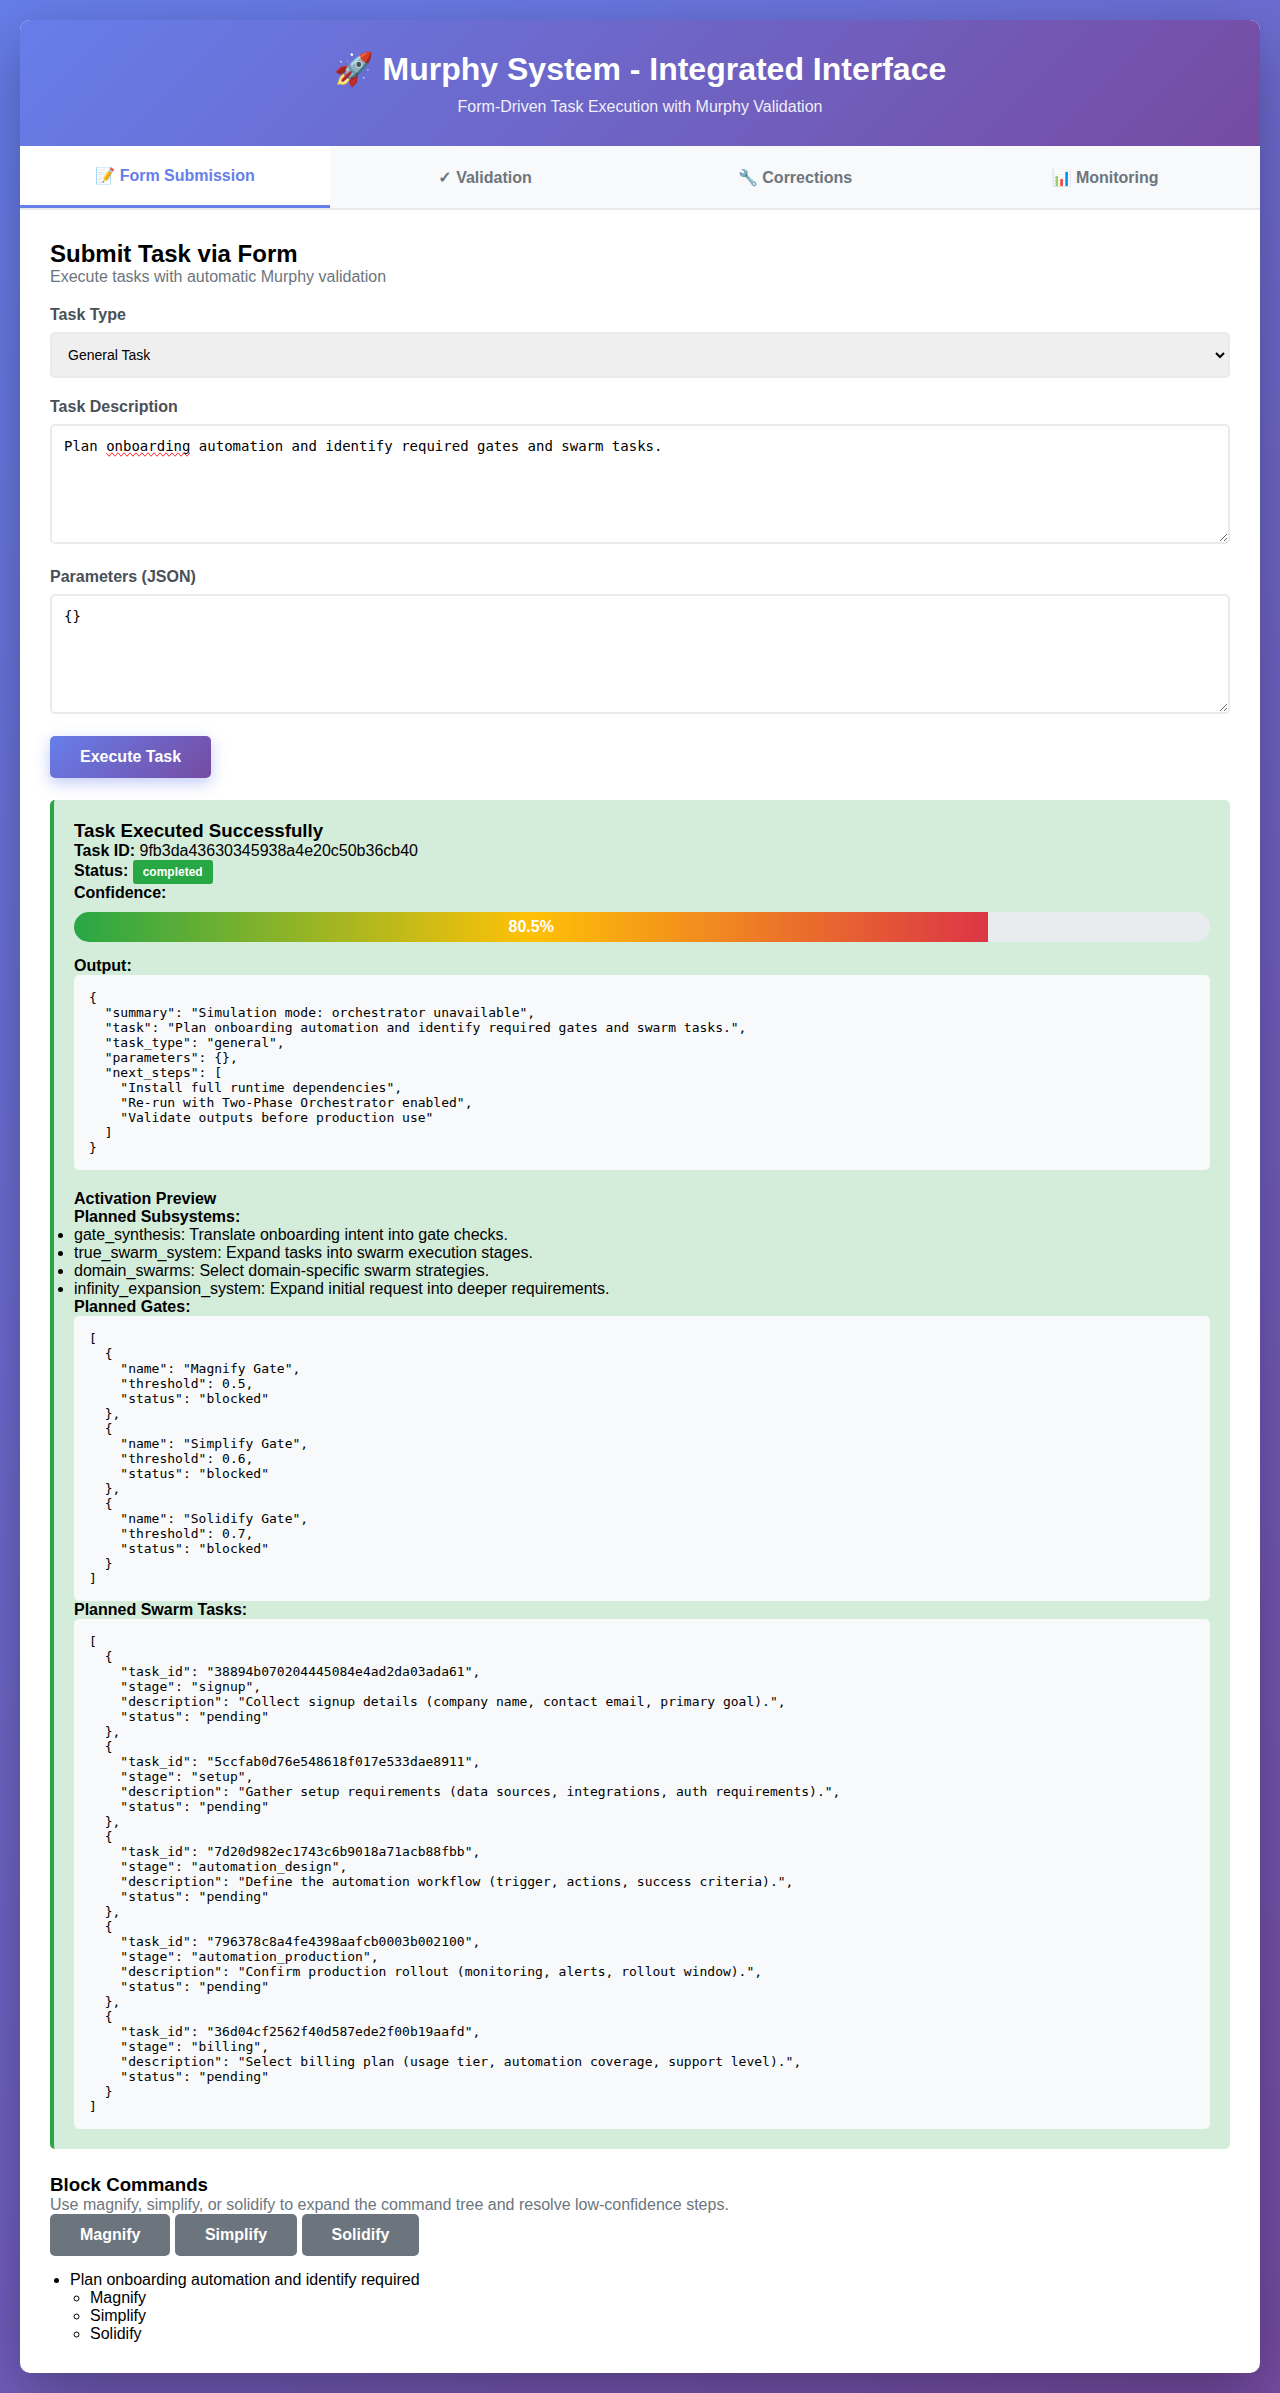
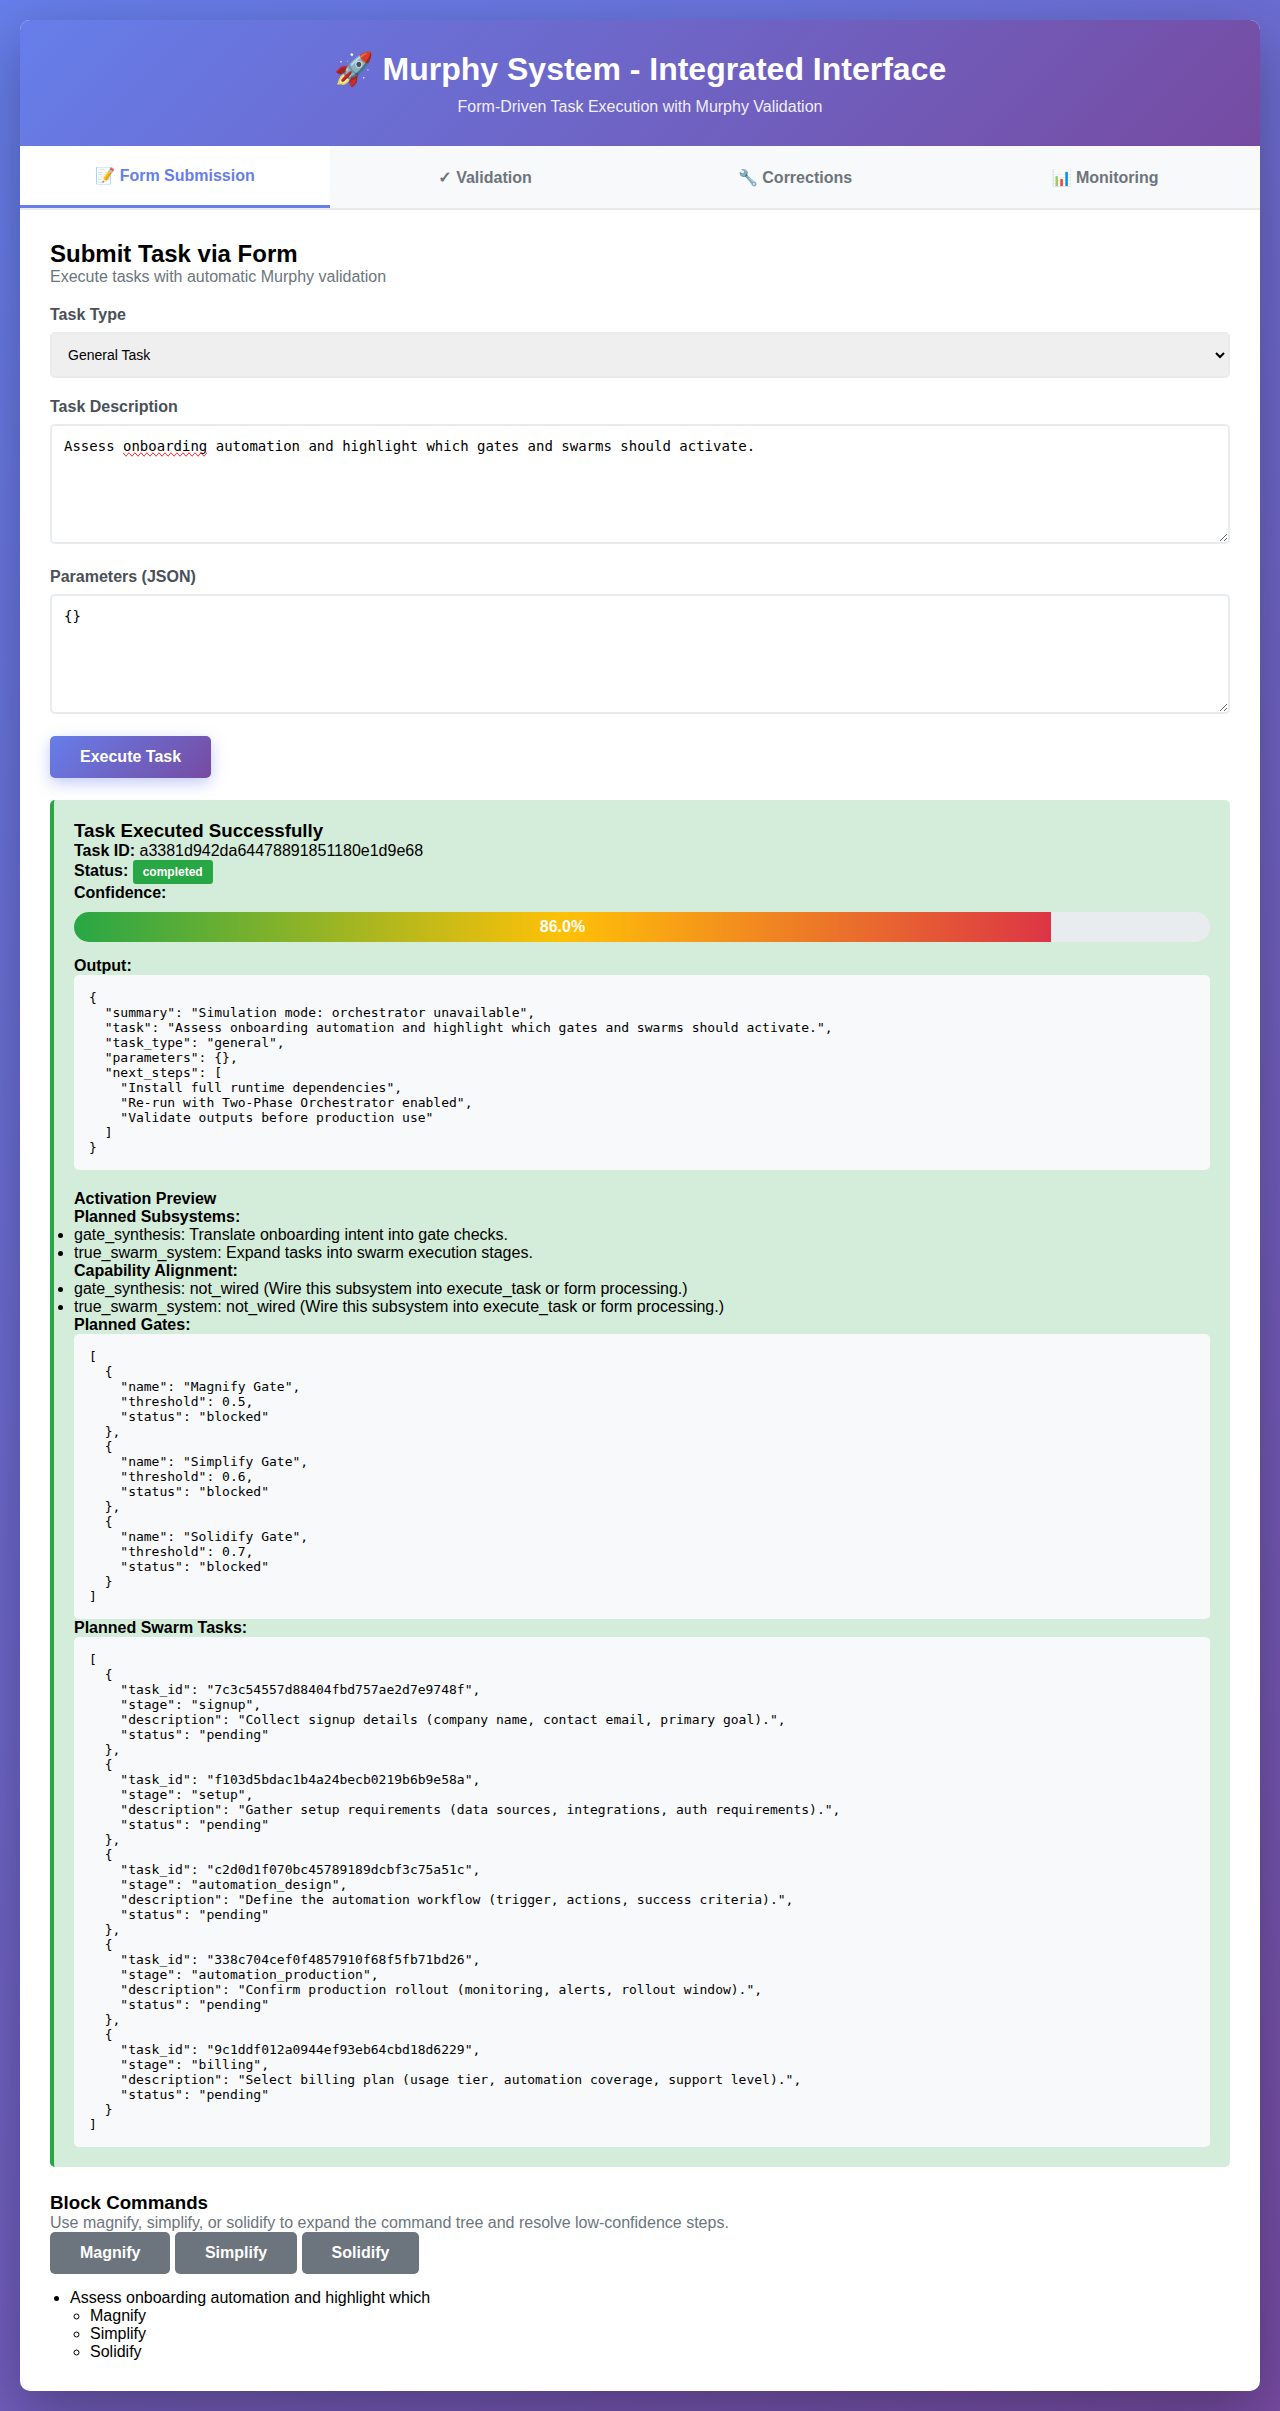
Add capability alignment preview

diff --git a/Murphy System/murphy_integrated/murphy_ui_integrated.html b/Murphy System/murphy_integrated/murphy_ui_integrated.html
@@ -529,12 +529,18 @@
                     if (data.activation_preview) {
                         const subsystems = data.activation_preview.planned_subsystems || [];
                         const subsystemItems = subsystems
-                            .map(item => `<li>${item.id}: ${item.reason}</li>`)
+                            .map(item => `<li>${escapeHtml(item.id)}: ${escapeHtml(item.reason)}</li>`)
+                            .join('');
+                        const alignment = data.activation_preview.capability_alignment || [];
+                        const alignmentItems = alignment
+                            .map(item => `<li>${escapeHtml(item.id)}: ${escapeHtml(item.gap_reason)} (${escapeHtml(item.gap_action)})</li>`)
                             .join('');
                         html += `
                             <h4 style="margin-top: 20px;">Activation Preview</h4>
                             <p><strong>Planned Subsystems:</strong></p>
                             <ul>${subsystemItems}</ul>
+                            <p><strong>Capability Alignment:</strong></p>
+                            <ul>${alignmentItems}</ul>
                             <p><strong>Planned Gates:</strong></p>
                             <pre style="background: #f8f9fa; padding: 15px; border-radius: 5px; overflow-x: auto;">${JSON.stringify(data.activation_preview.planned_gates, null, 2)}</pre>
                             <p><strong>Planned Swarm Tasks:</strong></p>
@@ -773,6 +779,18 @@
             }
         }
         
+        function escapeHtml(value) {
+            if (value === undefined || value === null) {
+                return '';
+            }
+            return String(value)
+                .replace(/&/g, '&amp;')
+                .replace(/</g, '&lt;')
+                .replace(/>/g, '&gt;')
+                .replace(/"/g, '&quot;')
+                .replace(/'/g, '&#39;');
+        }
+
         function showResult(elementId, content, type = '') {
             const element = document.getElementById(elementId);
             element.innerHTML = `<div class="result-box ${type}">${content}</div>`;

diff --git a/Murphy System/murphy_integrated/murphy_system_1.0_runtime.py b/Murphy System/murphy_integrated/murphy_system_1.0_runtime.py
@@ -594,6 +594,45 @@ class MurphySystem:
         """Decide when swarm expansion is needed for the request."""
         return "automation" in text or doc.state == self.ACTIVATION_SOLIDIFIED_STATE
 
+    def _suggest_gap_action(self, subsystem_id: str, entry: Optional[Dict[str, Any]]) -> str:
+        if not entry or not entry.get("available"):
+            return "Install or restore module files to enable this subsystem."
+        if not entry.get("wired"):
+            return "Wire this subsystem into execute_task or form processing."
+        if not entry.get("initialized"):
+            return "Initialize subsystem during runtime startup."
+        return "No gap detected."
+
+    def _build_capability_alignment(self, planned_subsystems: List[Dict[str, Any]]) -> List[Dict[str, Any]]:
+        audit = self.get_activation_audit()
+        module_lookup = {module["id"]: module for module in audit.get("modules", [])}
+        alignment = []
+        for subsystem in planned_subsystems:
+            entry = module_lookup.get(subsystem["id"])
+            available = bool(entry and entry.get("available"))
+            wired = bool(entry and entry.get("wired"))
+            initialized = bool(entry and entry.get("initialized"))
+            activated = bool(entry and entry.get("activated"))
+            capability_reflects = available and wired
+            gap_reason = "ready" if capability_reflects else "gap"
+            if not available:
+                gap_reason = "missing"
+            elif not wired:
+                gap_reason = "not_wired"
+            elif not initialized:
+                gap_reason = "not_initialized"
+            alignment.append({
+                "id": subsystem["id"],
+                "available": available,
+                "wired": wired,
+                "initialized": initialized,
+                "activated": activated,
+                "capability_reflects": capability_reflects,
+                "gap_reason": gap_reason,
+                "gap_action": self._suggest_gap_action(subsystem["id"], entry)
+            })
+        return alignment
+
     def _build_activation_preview(
         self,
         doc: LivingDocument,
@@ -660,6 +699,7 @@ class MurphySystem:
                 "reason": "Default gate checks ensure baseline safety."
             })
         self._record_activation_usage([item["id"] for item in planned_subsystems])
+        capability_alignment = self._build_capability_alignment(planned_subsystems)
 
         tasks_source = doc.generated_tasks or self._generate_swarm_tasks()
         planned_swarm_tasks = [
@@ -679,7 +719,8 @@ class MurphySystem:
             "planned_gates": doc.gates,
             "planned_swarm_tasks": planned_swarm_tasks,
             "onboarding_questions": onboarding_questions,
-            "constraints": doc.constraints
+            "constraints": doc.constraints,
+            "capability_alignment": capability_alignment
         }
         if onboarding_context:
             preview["onboarding_context"] = onboarding_context

diff --git a/docs/screenshots/README.md b/docs/screenshots/README.md
@@ -25,7 +25,7 @@ This directory contains visual screenshots for the Murphy System setup process.
 | 17_ui_terminal_architect_flow.png | Architect terminal flow step | 1280x720 |
 | 18_ui_terminal_worker_status.png | Worker terminal status flow | 1280x722 |
 | 19_ui_architect_block_tree.png | Architect block command tree with magnify/simplify/solidify | 1280x720 |
-| 20_ui_activation_preview.png | Integrated UI activation preview for planned gates and swarms | 1280x2393 |
+| 20_ui_activation_preview.png | Integrated UI activation preview with capability alignment | 1280x2411 |
 
 ## Usage
 
@@ -51,5 +51,5 @@ Screenshots were generated using Python PIL (Pillow) library to create terminal-
 ---
 
 **Total Screenshots:** 20  
-**Total Size:** ~1.27 MB  
+**Total Size:** ~1.28 MB  
 **Created:** February 9, 2026

diff --git a/VISUAL_SETUP_GUIDE_WITH_SCREENSHOTS.md b/VISUAL_SETUP_GUIDE_WITH_SCREENSHOTS.md
@@ -404,7 +404,7 @@ Open the architect terminal, run a high-level command, and use magnify/simplify/
 
 ### Step 20: Integrated Activation Preview
 
-Run a form task to see the planned subsystems, gates, and swarm tasks that will activate during onboarding.
+Run a form task to see the planned subsystems, gates, swarm tasks, and capability alignment gaps.
 
 ![Activation Preview](docs/screenshots/20_ui_activation_preview.png)
 

diff --git a/Murphy System/murphy_integrated/ACTIVATION_AUDIT.md b/Murphy System/murphy_integrated/ACTIVATION_AUDIT.md
@@ -32,6 +32,8 @@ To fetch the last activation preview captured during request processing:
 GET /api/diagnostics/activation/last
 ```
 
+Activation previews include a `capability_alignment` array with gap reasons and actions to close gaps.
+
 ## Verification Checklist (Commissioned Behaviors)
 
 1. **Block command expansion (magnify/simplify/solidify)**
